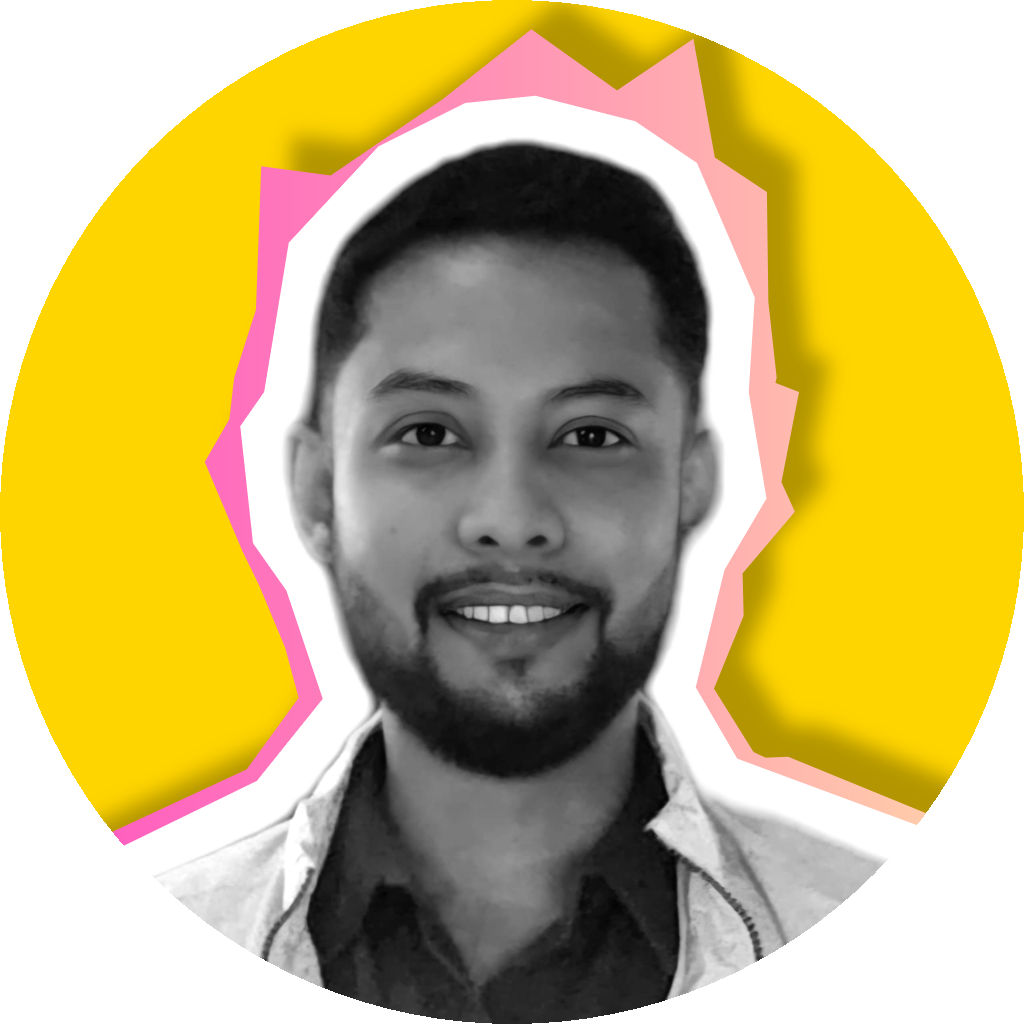
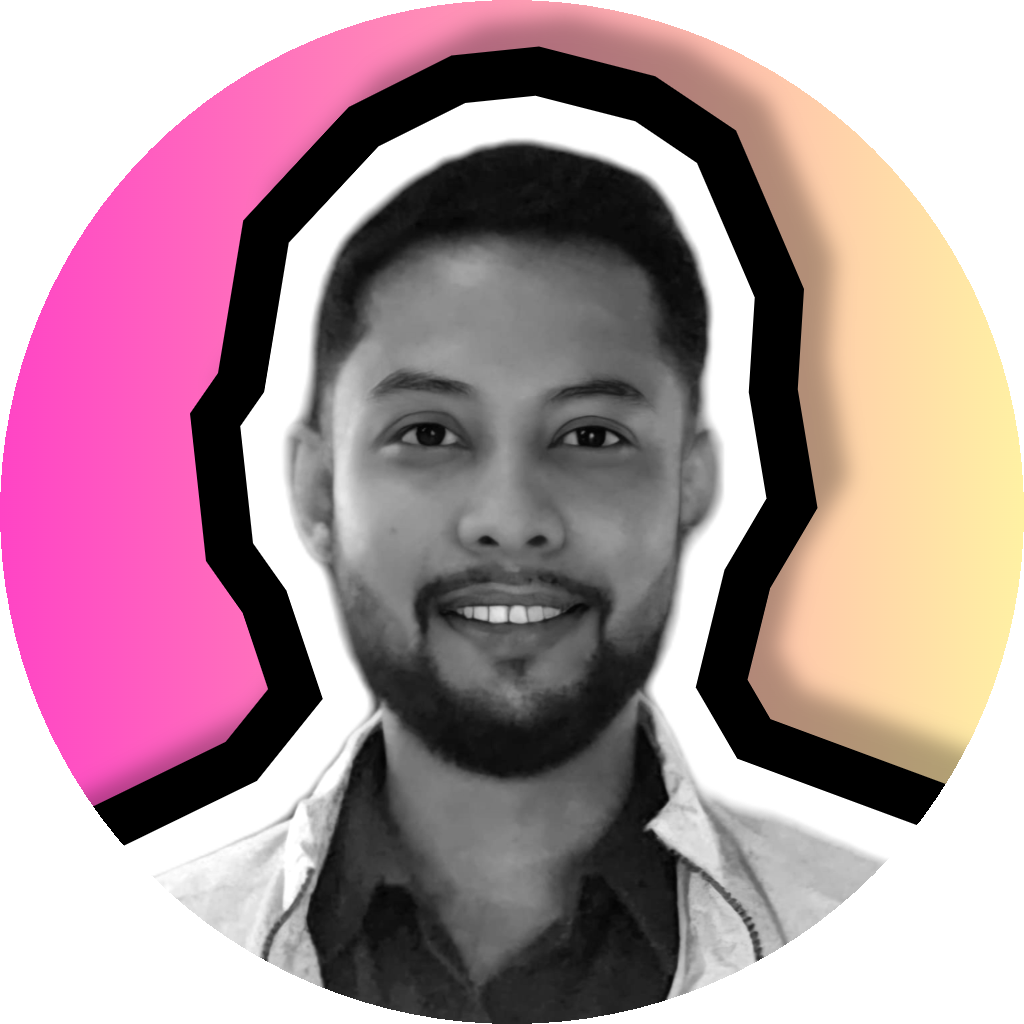
fix scroll effect

diff --git a/index.html b/index.html
@@ -138,8 +138,9 @@
     </nav>
 
     <!-- ================= MOBILE MENU ================= -->
-    <aside id="sideMenu" 
-           class="fixed top-0 right-0 translate-x-full z-50 h-screen w-80 bg-white dark:bg-gray-900 transition-transform duration-300 lg:hidden shadow-2xl overflow-y-auto">
+<aside id="sideMenu"
+  class="fixed top-0 right-0 translate-x-full z-50 h-[100dvh] max-h-[100dvh] w-80 bg-white dark:bg-gray-900 transition-transform duration-300 lg:hidden shadow-2xl overflow-y-auto overscroll-contain touch-auto">
+
       
       <!-- Mobile Menu Header -->
       <div class="flex items-center justify-between p-6 border-b border-gray-200 dark:border-gray-800">
@@ -298,71 +299,75 @@
     <!-- ================================== MAIN ================================== -->
     <main>
 <!-- ========= HERO / HOME SECTION ========= -->
-  <section id="top" class="min-h-screen flex items-center justify-center px-4 sm:px-6 lg:px-8 pt-20">
-    <div class="max-w-6xl mx-auto w-full">
+<section id="top" class="min-h-screen px-4 sm:px-6 lg:px-8 pt-24 pb-10">
+  <div class="max-w-6xl mx-auto w-full">
+    
+    <div class="text-center space-y-6 sm:space-y-8">
       
-      <div class="text-center space-y-6 sm:space-y-8">
-        
-        <!-- Profile Image -->
-        <div class="flex justify-center">
-          <img src="./images/profile-img.png" alt="Aditya Raj Singh" 
-               class="w-32 h-32 sm:w-40 sm:h-40 rounded-full object-cover border-4 border-gray-200 dark:border-gray-700 shadow-lg">
-        </div>
+      <!-- Profile Image -->
+      <div class="flex justify-center">
+        <img src="./images/profile-img.png" alt="Aditya Raj Singh" 
+             class="w-32 h-32 sm:w-40 sm:h-40 rounded-full object-cover border-4 border-gray-200 dark:border-gray-700 shadow-lg">
+      </div>
 
-        <!-- Availability Badge -->
-        <div class="flex items-center gap-2 justify-center">
-          <span class="relative flex">
-            <span class="absolute inline-flex h-3 w-3 rounded-full bg-emerald-400 opacity-75 animate-ping"></span>
-            <span class="relative inline-flex h-3 w-3 rounded-full bg-emerald-500"></span>
-          </span>
-          <span class="text-sm sm:text-base text-gray-700 dark:text-gray-300 font-medium">
-            Open for Cloud & DevOps roles
-          </span>
-        </div>
+      <!-- Availability Badge -->
+      <div class="flex items-center gap-2 justify-center">
+        <span class="relative flex">
+          <span class="absolute inline-flex h-3 w-3 rounded-full bg-emerald-400 opacity-75 animate-ping"></span>
+          <span class="relative inline-flex h-3 w-3 rounded-full bg-emerald-500"></span>
+        </span>
+        <span class="text-sm sm:text-base text-gray-700 dark:text-gray-300 font-medium">
+          Open for Cloud & DevOps roles
+        </span>
+      </div>
 
-        <!-- Intro -->
-        <h3 class="text-xl sm:text-2xl md:text-3xl font-Ovo text-gray-800 dark:text-gray-200">
-          Hi, I'm Aditya Raj Singh
-        </h3>
+      <!-- Intro -->
+      <h3 class="text-xl sm:text-2xl md:text-3xl font-Ovo text-gray-800 dark:text-gray-200">
+        Hi, I'm Aditya Raj Singh
+      </h3>
 
-        <!-- Headline -->
-        <h1 class="text-4xl sm:text-5xl lg:text-6xl xl:text-7xl font-Ovo font-bold leading-tight text-gray-900 dark:text-white">
+      <!-- Headline -->
+      <h1 class="text-4xl sm:text-5xl lg:text-6xl xl:text-7xl font-Ovo font-bold leading-tight">
+        <span class="bg-gradient-to-r from-[#b820e6] to-[#da7d20] bg-clip-text text-transparent">
           Cloud & DevOps Engineer
-          <br class="hidden sm:block">
-          <span class="bg-gradient-to-r from-[#b820e6] to-[#da7d20] bg-clip-text text-transparent">
-            with Full-Stack Experience
-          </span>
-        </h1>
+        </span>
+        <br class="hidden sm:block">
+        <span class="text-gray-900 dark:text-white">
+          with Full-Stack Experience
+        </span>
+      </h1>
 
-        <!-- Status Tag -->
-        <div class="flex justify-center">
-          <span class="inline-flex items-center px-5 py-2 rounded-full bg-gradient-to-r from-[#b820e6]/10 to-[#da7d20]/10 border border-gray-300 dark:border-gray-700 text-sm text-gray-700 dark:text-gray-300">
-            Currently building cloud-native projects · Portfolio in active development
-          </span>
-        </div>
 
-        <!-- Short Description -->
-        <p class="max-w-3xl mx-auto text-base sm:text-lg font-Ovo text-gray-600 dark:text-gray-400 leading-relaxed px-4">
-          I build, deploy, automate, and debug real systems across cloud platforms, DevOps pipelines, and modern web stacks.
-        </p>
+      <!-- Status Tag -->
+      <div class="flex justify-center">
+        <span class="inline-flex items-center px-5 py-2 rounded-full bg-gradient-to-r from-[#b820e6]/10 to-[#da7d20]/10 border border-gray-300 dark:border-gray-700 text-sm text-gray-700 dark:text-gray-300">
+          Currently building cloud-native projects · Portfolio in active development
+        </span>
+      </div>
 
-        <!-- CTA Buttons -->
-        <div class="flex flex-col sm:flex-row justify-center items-center gap-4 pt-4">
-          <a href="#contact"
-            class="w-full sm:w-auto px-8 py-3.5 rounded-full bg-gradient-to-r from-[#b820e6] to-[#da7d20] text-white font-medium flex items-center justify-center gap-2 hover:scale-105 hover:shadow-lg transition-all">
-            Contact me
-            <img src="./images/right-arrow-white.png" class="w-4" alt="">
-          </a>
+      <!-- Short Description -->
+      <p class="max-w-3xl mx-auto text-base sm:text-lg font-Ovo text-gray-600 dark:text-gray-400 leading-relaxed px-4">
+        I build, deploy, automate, and debug real systems across cloud platforms, DevOps pipelines, and modern web stacks.
+      </p>
 
-          <a href="./images/Aditya_resume.pdf" download="Aditya_Raj_Singh_Resume.pdf"
-            class="w-full sm:w-auto px-8 py-3.5 rounded-full border-2 border-gray-400 dark:border-gray-600 flex items-center justify-center gap-2 bg-white text-gray-900 dark:bg-gray-800 dark:text-white font-medium hover:scale-105 hover:border-gray-500 dark:hover:border-gray-500 hover:shadow-lg transition-all">
-            My resume
-            <img src="./images/download-icon.png" class="w-4 dark:invert" alt="Download">
-          </a>
-        </div>
+      <!-- CTA Buttons -->
+      <div class="flex flex-col sm:flex-row justify-center items-center gap-4 pt-4">
+        <a href="#contact"
+          class="w-full sm:w-auto px-8 py-3.5 rounded-full bg-gradient-to-r from-[#b820e6] to-[#da7d20] text-white font-medium flex items-center justify-center gap-2 hover:scale-105 hover:shadow-lg transition-all">
+          Contact me
+          <img src="./images/right-arrow-white.png" class="w-4" alt="">
+        </a>
 
-        <!-- Social Links -->
-        <div class="flex flex-wrap items-center justify-center gap-2 sm:gap-3 pt-6 px-4">
+        <a href="./images/Aditya_resume.pdf" download="Aditya_Raj_Singh_Resume.pdf"
+          class="w-full sm:w-auto px-8 py-3.5 rounded-full border-2 border-gray-400 dark:border-gray-600 flex items-center justify-center gap-2 bg-white text-gray-900 dark:bg-gray-800 dark:text-white font-medium hover:scale-105 hover:border-gray-500 dark:hover:border-gray-500 hover:shadow-lg transition-all">
+          My resume
+          <img src="./images/download-icon.png" class="w-4 dark:invert" alt="Download">
+        </a>
+      </div>
+
+      <!-- Social Links -->
+        <!-- Social Links - Responsive Design -->
+        <div class="flex flex-wrap items-center justify-center gap-3 sm:gap-4 pt-6 px-4">
           
           <!-- GitHub -->
           <a href="https://github.com/ars0a/" 
@@ -409,9 +414,10 @@
           </a>
         </div>
 
-      </div>
     </div>
-  </section>
+  </div>
+</section>
+
 
 
   <!-- ========= ABOUT SECTION ========= -->
@@ -793,7 +799,7 @@
             </div>
             <div class="flex justify-end">
               <button type="button"
-                onclick="openLocalCert('./certificates/NPTEL-1.png')"
+                onclick="openLocalCert('./certificates/nptel.png')"
                 class="px-6 py-2.5 text-sm font-semibold rounded-full text-white bg-gradient-to-r from-[#b820e6] to-[#da7d20] hover:scale-105 hover:shadow-lg transition-all duration-300 active:scale-95">
                 View Certificate
               </button>

diff --git a/script.js b/script.js
@@ -24,8 +24,9 @@ function openMenu() {
   // Disable snap scrolling when menu is open
   disableSnapScrolling();
   
-  // Lock body scroll
-  document.body.style.overflow = 'hidden';
+document.documentElement.style.overflow = 'hidden';
+sideMenu.style.pointerEvents = 'auto';
+
   
   // Add overlay backdrop for mobile menu
   const backdrop = document.createElement('div');
@@ -38,17 +39,19 @@ function openMenu() {
 function closeMenu() {
   sideMenu.classList.remove('translate-x-0');
   sideMenu.classList.add('translate-x-full');
-  
+
   // Re-enable snap scrolling
   enableSnapScrolling();
-  
-  // Unlock body scroll
-  document.body.style.overflow = '';
-  
+
+  // Unlock page scroll PROPERLY for mobile
+  document.documentElement.style.overflow = '';
+  sideMenu.style.pointerEvents = '';
+
   // Remove backdrop
   const backdrop = document.getElementById('menuBackdrop');
   if (backdrop) backdrop.remove();
 }
+
 
 // Close menu when clicking navigation links
 navLinks.forEach(link => {

diff --git a/style.css b/style.css
@@ -89,6 +89,26 @@ body.no-snap {
   scroll-snap-type: none !important;
 }
 
+/* ===== REAL MOBILE MENU SCROLL FIX ===== */
+
+#sideMenu {
+  -webkit-overflow-scrolling: touch;
+  overscroll-behavior: contain;
+  touch-action: pan-y;
+}
+
+/* Prevent backdrop from eating touch */
+#menuBackdrop {
+  touch-action: none;
+  pointer-events: auto;
+}
+
+/* Ensure links are touchable */
+.mobile-nav-link {
+  touch-action: manipulation;
+}
+
+
 
 /* ================= ANIMATIONS ================= */
 
@@ -414,24 +434,8 @@ button:focus-visible {
 
 /* ================= FOOTER ================= */
 
-footer a {
-  position: relative;
-}
 
-footer a::after {
-  content: '';
-  position: absolute;
-  bottom: -2px;
-  left: 0;
-  width: 0;
-  height: 2px;
-  background: linear-gradient(to right, #b820e6, #da7d20);
-  transition: width 0.3s ease;
-}
 
-footer a:hover::after {
-  width: 100%;
-}
 
 /* =======================================
    CHAT SYSTEM — MOBILE + DESKTOP MODES
